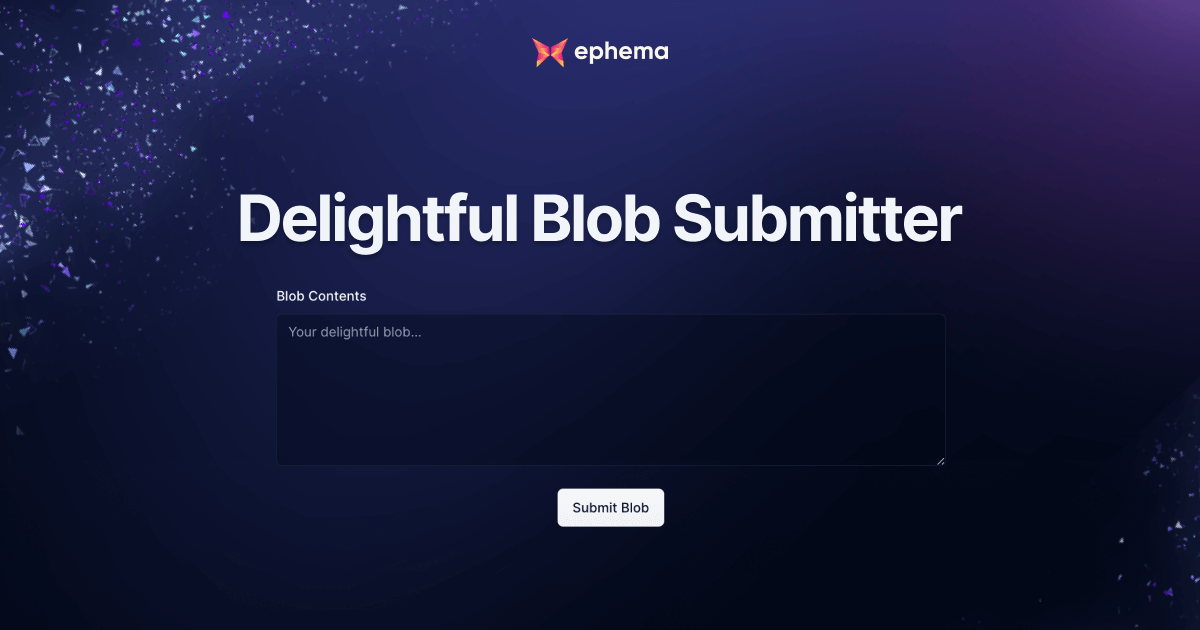
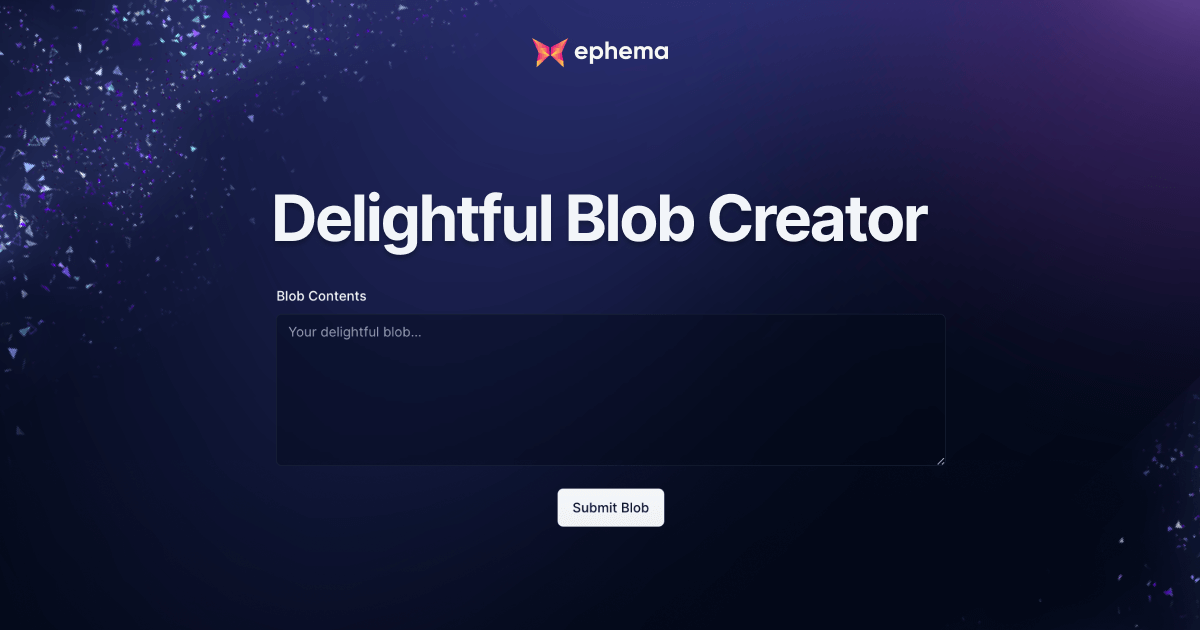
Add metadata

Changed region(s): [[0.185, 0.3016, 0.8017, 0.4222]]

diff --git a/src/app/layout.tsx b/src/app/layout.tsx
@@ -1,4 +1,3 @@
-"use client";
 import { Inter as FontSans } from "next/font/google";
 
 import { ThemeProvider } from "@/components/ThemeProvider";
@@ -14,6 +13,31 @@ const fontSans = FontSans({
   variable: "--font-sans",
 });
 
+const mainUrl = "https://blobs.ephema.io";
+const isDevelopment = process.env.NODE_ENV === "development";
+const isProductionDeploy = process.env.CONTEXT === "production";
+const deploymentUrl = isProductionDeploy
+  ? mainUrl
+  : process.env.DEPLOY_PRIME_URL || mainUrl;
+
+const metadataBase = isDevelopment
+  ? new URL(`http://localhost:${process.env.PORT || 3000}`)
+  : new URL(deploymentUrl);
+
+export const metadata = {
+  title: "Blob Creator | ephema",
+  description:
+    "Create and submit EIP-4844 blobs to Ethereum directly from your browser",
+  metadataBase: metadataBase,
+  alternates: {
+    canonical: "/",
+  },
+  openGraph: {
+    siteName: "ephema",
+    type: "website",
+  },
+};
+
 export default function RootLayout({
   children,
 }: {
@@ -21,9 +45,6 @@ export default function RootLayout({
 }) {
   return (
     <html lang="en" suppressHydrationWarning>
-      <head>
-        <title>Delightful Blobs</title>
-      </head>
       <body
         className={cn(
           "dark:dark min-h-screen bg-background font-sans antialiased",

diff --git a/src/app/page.tsx b/src/app/page.tsx
@@ -55,7 +55,7 @@ export default function Home() {
       <div className="text-center">
         <Logo />
         <h1 className="mb-2 text-4xl font-bold tracking-tight">
-          Delightful Blob Submitter
+          Delightful Blob Creator
         </h1>
         <p className="mb-1 text-muted-foreground">
           Create and send blobs directly from your browser ✨
